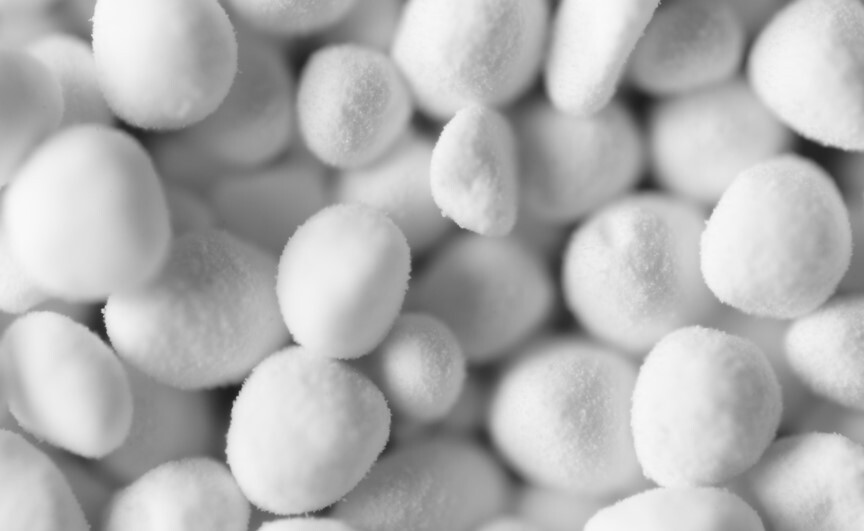
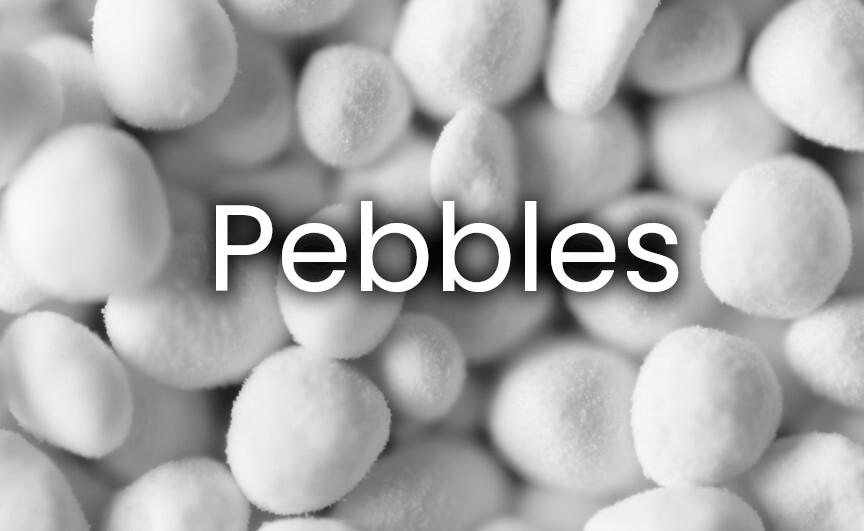
Meeting results

Changed region(s): [[0.2188, 0.3315, 0.8125, 0.6026]]

diff --git a/scripts/tour.js b/scripts/tour.js
@@ -46,7 +46,7 @@ function myMain(){
     img.src="img/exoplanets-disks.jpg";
     img.onload=function(){
         ctx.drawImage(this,0,0);
-        addCanvasForArea("dust", "./img/IDP.jpg", this.width, this.height);
+        addCanvasForArea("dust", "./img/IDP_with_text.jpg", this.width, this.height);
         addCanvasForArea("pebbles", "./img/Pebble_Labor_2.jpg", this.width, this.height);
         addCanvasForArea("planetesimal", "./img/arrokoth_cut.png", this.width, this.height);
         addCanvasForArea("transition0", "./img/transition_0.png", this.width, this.height);

diff --git a/css/tour.css b/css/tour.css
@@ -25,6 +25,10 @@ a {
     z-index: 1;
 }
 
+#dustArea, #pebblesArea, #planetesimalArea {
+    cursor: pointer;
+}
+
 #displayPaths > *{
     fill: none;
     stroke: white;
